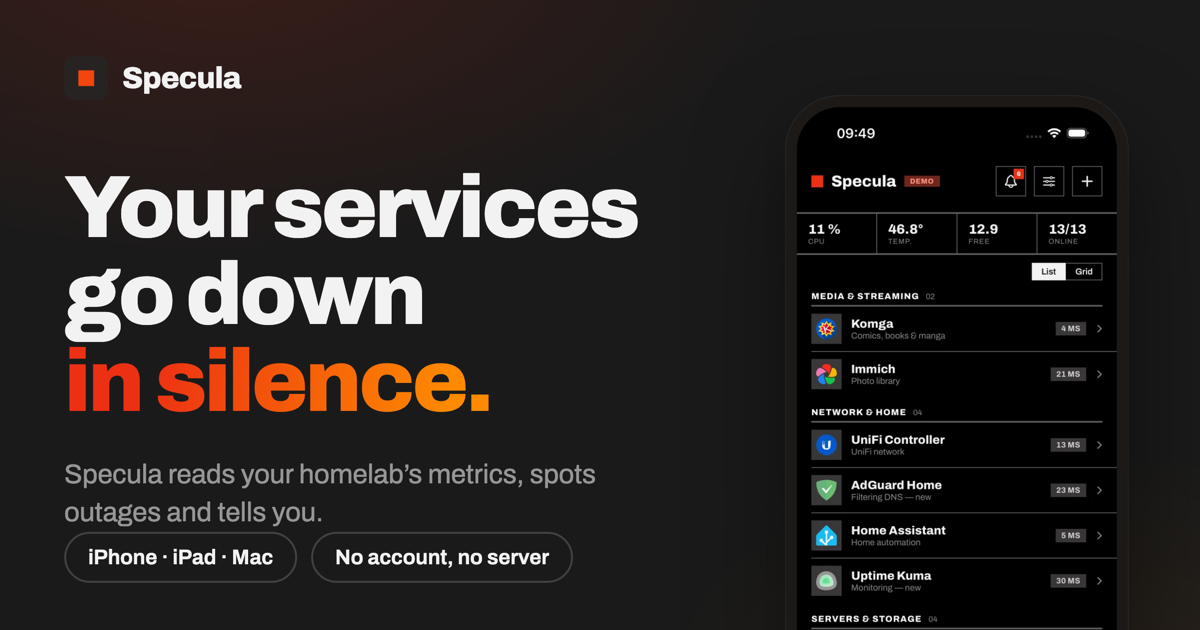
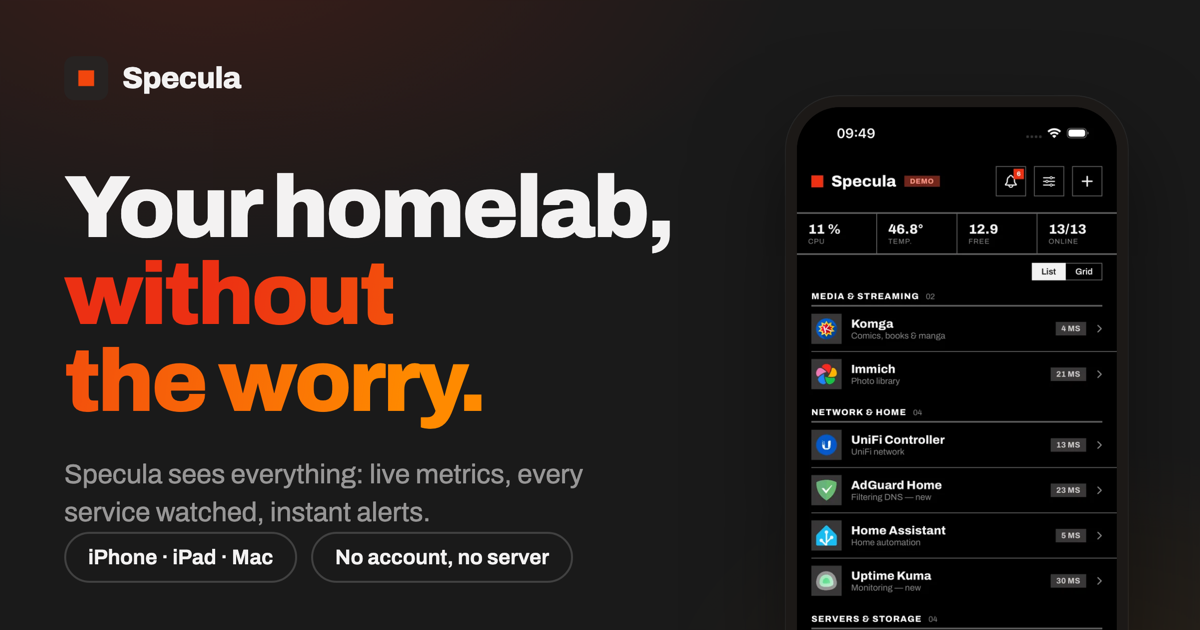
chore(site): change l'accroche du héros dans les cinq langues
« Tes services tombent en silence » cède la place à « Ton homelab,
sans l'inquiétude », et la lede décrit ce que Specula fait plutôt que
le mal qu'il soigne : métriques en direct, services surveillés un à
un, alerte immédiate. L'image de partage est régénérée avec la
version anglaise de la nouvelle accroche.

Changed region(s): [[0.0308, 0.3921, 0.4317, 0.6937], [0.0617, 0.7238, 0.4933, 0.8444], [0.2158, 0.2714, 0.555, 0.3921]]

diff --git a/site/src/i18n/strings/ar.ts b/site/src/i18n/strings/ar.ts
@@ -15,10 +15,10 @@ export const ar = {
   'nav.menu': 'القائمة',
 
   // — الواجهة الأولى —
-  'hero.title': 'خدماتك تتعطّل بصمت.',
-  'hero.title.accent': 'بصمت',
+  'hero.title': 'مختبرك المنزلي، بلا قلق.',
+  'hero.title.accent': 'بلا قلق',
   'hero.lede':
-    'ليس بعد الآن. يقرأ Specula مقاييس مختبرك المنزلي، ويرصد الأعطال وينبّهك — إشعار وLive Activity وودجة.',
+    'Specula يرى كلّ شيء: مقاييس مباشرة، ومراقبة كلّ خدمة على حدة، وتنبيه فوري.',
   'hero.cta.primary': 'انضم إلى النسخة التجريبية على TestFlight',
 
   // — لقطات الشاشة —

diff --git a/site/src/i18n/strings/fr.ts b/site/src/i18n/strings/fr.ts
@@ -15,10 +15,10 @@ export const fr = {
   'nav.menu': 'Menu',
 
   // — hero —
-  'hero.title': 'Tes services tombent en silence.',
-  'hero.title.accent': 'en silence.',
+  'hero.title': 'Ton homelab, sans l’inquiétude.',
+  'hero.title.accent': 'sans l’inquiétude.',
   'hero.lede':
-    'Plus maintenant. Specula lit les métriques de ton homelab, repère les pannes et te prévient — notification, Live Activity, widget.',
+    'Specula voit tout : métriques en direct, services surveillés un à un, alerte immédiate.',
   'hero.cta.primary': 'Rejoindre la bêta TestFlight',
 
   // — captures d'écran —

diff --git a/site/src/i18n/strings/es.ts b/site/src/i18n/strings/es.ts
@@ -15,10 +15,10 @@ export const es = {
   'nav.menu': 'Menú',
 
   // — portada —
-  'hero.title': 'Tus servicios caen en silencio.',
-  'hero.title.accent': 'en silencio.',
+  'hero.title': 'Tu homelab, sin preocupaciones.',
+  'hero.title.accent': 'sin preocupaciones.',
   'hero.lede':
-    'Ya no. Specula lee las métricas de tu homelab, detecta las caídas y te avisa — notificación, Live Activity, widget.',
+    'Specula lo ve todo: métricas en directo, cada servicio vigilado, alerta inmediata.',
   'hero.cta.primary': 'Unirse a la beta de TestFlight',
 
   // — capturas —

diff --git a/site/src/i18n/strings/en.ts b/site/src/i18n/strings/en.ts
@@ -15,10 +15,10 @@ export const en = {
   'nav.menu': 'Menu',
 
   // — hero —
-  'hero.title': 'Your services go down in silence.',
-  'hero.title.accent': 'in silence.',
+  'hero.title': 'Your homelab, without the worry.',
+  'hero.title.accent': 'without the worry.',
   'hero.lede':
-    'Not anymore. Specula reads your homelab’s metrics, spots outages and tells you — notification, Live Activity, widget.',
+    'Specula sees everything: live metrics, every service watched, instant alerts.',
   'hero.cta.primary': 'Join the TestFlight beta',
 
   // — captures d'écran —

diff --git a/site/src/i18n/strings/zh.ts b/site/src/i18n/strings/zh.ts
@@ -15,10 +15,10 @@ export const zh = {
   'nav.menu': '菜单',
 
   // — 首屏 —
-  'hero.title': '你的服务，悄无声息地掉线。',
-  'hero.title.accent': '悄无声息',
+  'hero.title': '你的 homelab，从此无忧。',
+  'hero.title.accent': '从此无忧',
   'hero.lede':
-    '现在不会了。Specula 读取 homelab 的指标，发现故障并提醒你 — 通知、实时活动、小组件。',
+    'Specula 尽收眼底：实时指标、逐一守护每个服务、即时告警。',
   'hero.cta.primary': '加入 TestFlight 测试版',
 
   // — 截图 —
